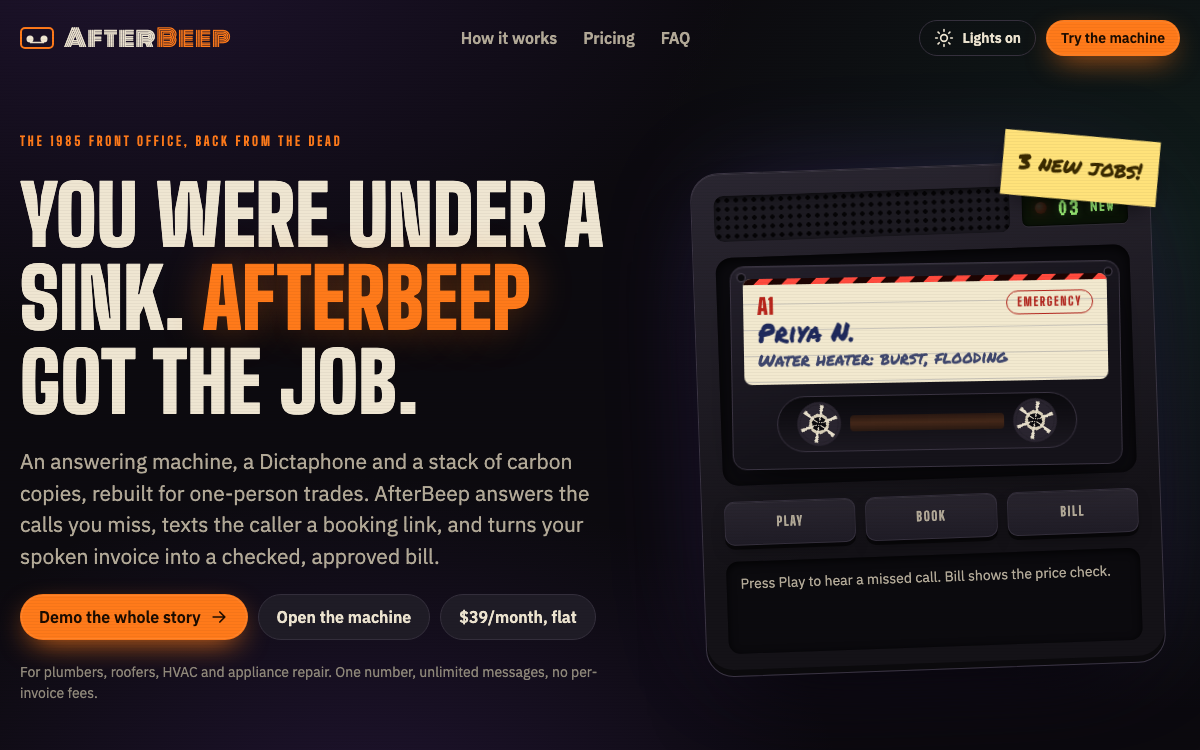
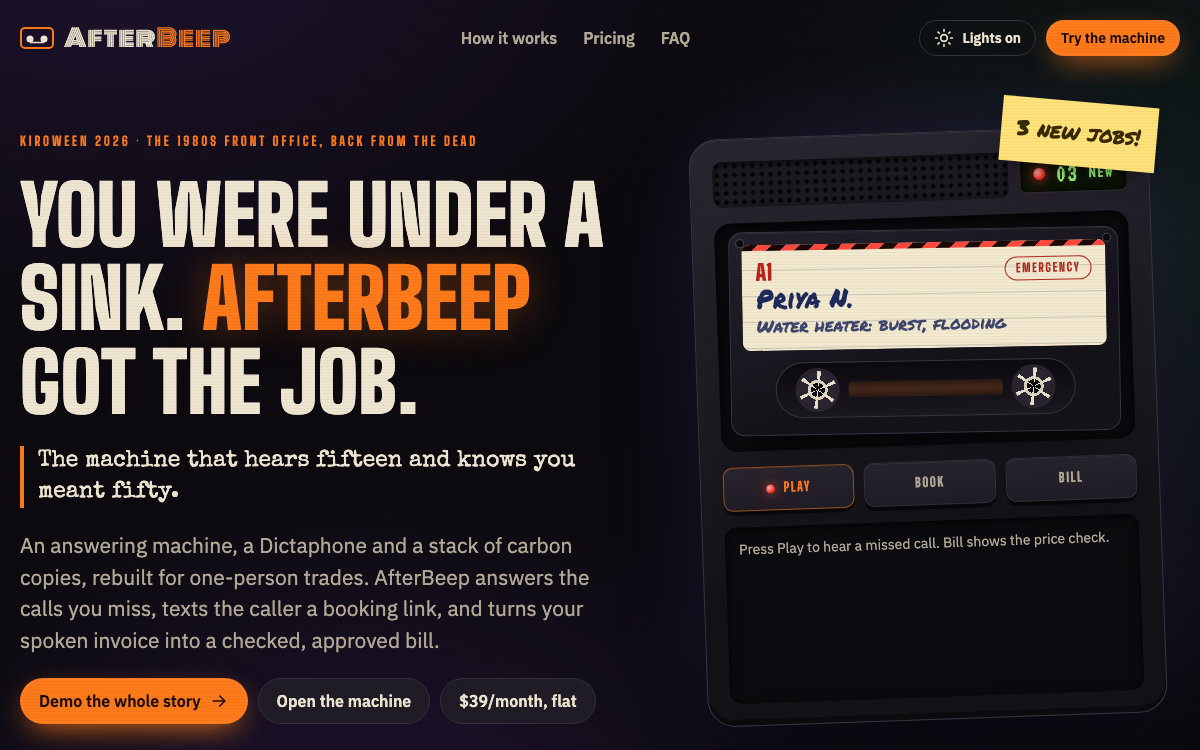
Refresh the screens and keep the file map current
New README screens for the landing page, the inbox on Morgan's Tuesday
(2 booked, $557 of work, $35 caught, 14 times the price), the story
finale, the PAID invoice and the raised graveyard. The README layout
and the structure steering file list the new domain modules, the
revive service, the SAM template and the gated AWS tests.

diff --git a/.kiro/steering/structure.md b/.kiro/steering/structure.md
@@ -6,7 +6,8 @@ inclusion: always
 ```
 .kiro/                 steering, specs, hooks and MCP settings (this folder)
 .github/workflows/      CI: typecheck, spec coverage, unit and end-to-end tests
-scripts/               spec-coverage.ts: every EARS criterion must be named by a test
+scripts/               spec-coverage.ts: every EARS criterion must be named by a test; eval-extractor.ts and
+                       transcribe-sample.ts score and spot-check extraction (paid paths are switched off by default)
 src/
   domain/              pure business logic, fully unit tested
     money.ts           cents, formatting, rounding
@@ -17,6 +18,9 @@ src/
     voicemail-rules.ts rule-based extraction of name, number, address, job, urgency
     slots.ts           open appointment slots from hours and booked jobs
     kept.ts            "Kept this week": calls, texts, bookings and amounts caught
+    graveyard.ts       which unreturned hang-ups can be raised from the dead
+    spanish.ts         detects Spanish voicemails and maps trade phrases to English for the rules
+    payback.ts         the landing page payback estimate
     types.ts           shared domain types
   adapters/
     transcriber/  extractor/  sms/  invoices/  store/
@@ -26,17 +30,19 @@ src/
     index.ts           selects implementations from env
   server/
     app.ts             Hono app factory (dependencies injected)
-    services/          voicemail pipeline, booking, invoicing
+    services/          voicemail pipeline, booking, invoicing, revive (raise the dead)
     seed.ts            the demo business, past invoices and sample voicemails
     main.ts            Node entry point
   client/
     pages/             one file per route
     components/        cassette, message light, tape deck, etc.
     styles/            tokens.css and global styles
-infra/connect/         Amazon Connect contact flow and wiring notes for the real phone path
+infra/template.yaml    SAM template for the real phone path (validated in CI)
+infra/connect/         Amazon Connect contact flow, hand-off Lambda and wiring notes
 tests/
   unit/                Vitest
   e2e/                 Playwright
+  aws/                 live AWS checks, skipped unless AFTERBEEP_AWS_TEST=1
 ```
 
 ## Conventions

diff --git a/README.md b/README.md
@@ -74,7 +74,11 @@ A transcript is free now. What a solo tech still lacks is what happens after the
 
 | The caller's phone | Sent | The inbox |
 |---|---|---|
-| ![Booking page on a phone](docs/screens/booking-phone.png) | ![Invoice stamped sent, next to the customer's text](docs/screens/story-sent.png) | ![Cassette inbox with the Kept this week readout](docs/inbox.png) |
+| ![Booking page on a phone](docs/screens/booking-phone.png) | ![Invoice stamped sent, next to the customer's text](docs/screens/story-sent.png) | ![Cassette inbox with the Kept this week readout: 2 booked, $557 of work, $35 caught, paid for itself 14 times](docs/inbox.png) |
+
+| The finale | Paid | Raise the dead |
+|---|---|---|
+| ![The story finale counting up what one missed call kept](docs/screens/finale.png) | ![June's invoice stamped PAID](docs/screens/paid.png) | ![Five unreturned hang-ups raised from the graveyard, each texted a booking link](docs/screens/graveyard.png) |
 
 ## What works today
 Everything runs on a laptop with no accounts. Each item is covered by the tests below.
@@ -121,9 +125,9 @@ Every outside service sits behind a port with a free local default, so the demo 
 | Store | `AFTERBEEP_DATA_DIR` | JSON file with atomic writes | |
 
 ```
-src/domain/     pure logic: money, spoken numbers, tax, invoice parser, price book (carbon copies), voicemail rules, slots, kept stats
+src/domain/     pure logic: money, spoken numbers, tax, invoice parser, price book (carbon copies), voicemail rules, Spanish glossary, slots, kept stats, graveyard, payback, story caller IDs
 src/adapters/   ports and implementations: store, transcriber, extractor, sms, invoices
-src/server/     Hono API, services (voicemail, booking, invoicing), seed data
+src/server/     Hono API, services (voicemail, booking, invoicing, revive), seed data
 src/client/     React app: landing, machine (inbox, call, schedule, invoice, outbox, prices), caller pages
 infra/          SAM template for the real phone path; connect/ holds the contact flow and Lambda
 .kiro/          steering, specs, hooks, MCP settings
